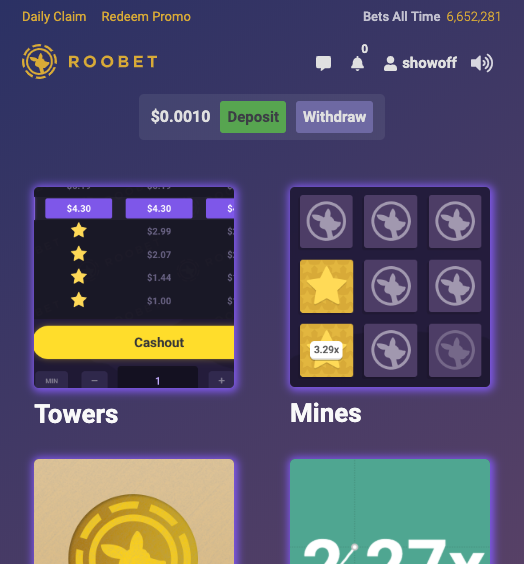
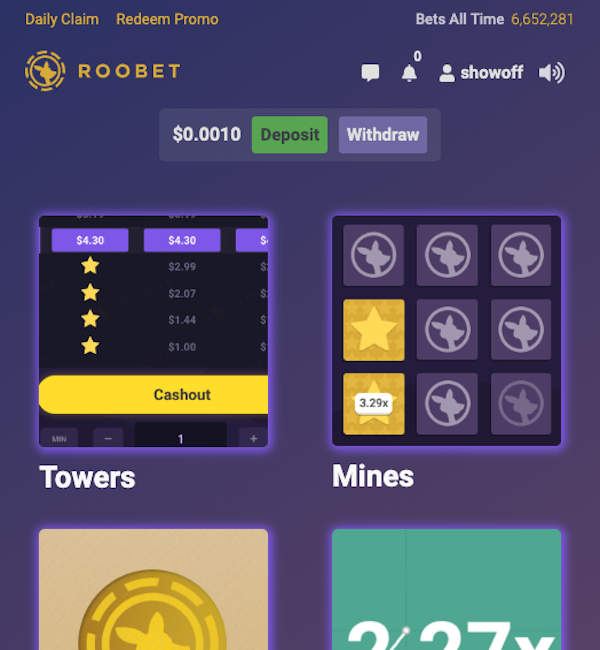
livevoice

diff --git a/css/main.css b/css/main.css
@@ -2827,7 +2827,15 @@ html.no-csstransitions .home-content__main {
   transform: scale(0.5);
 }
 
+
+@media only screen and (max-width:650px) {
+  .item-folio__thumb img {
+  }
+
+}
 .item-folio__thumb img {
+  height: auto;
+  width: 100%;
   vertical-align: bottom;
 }
 
